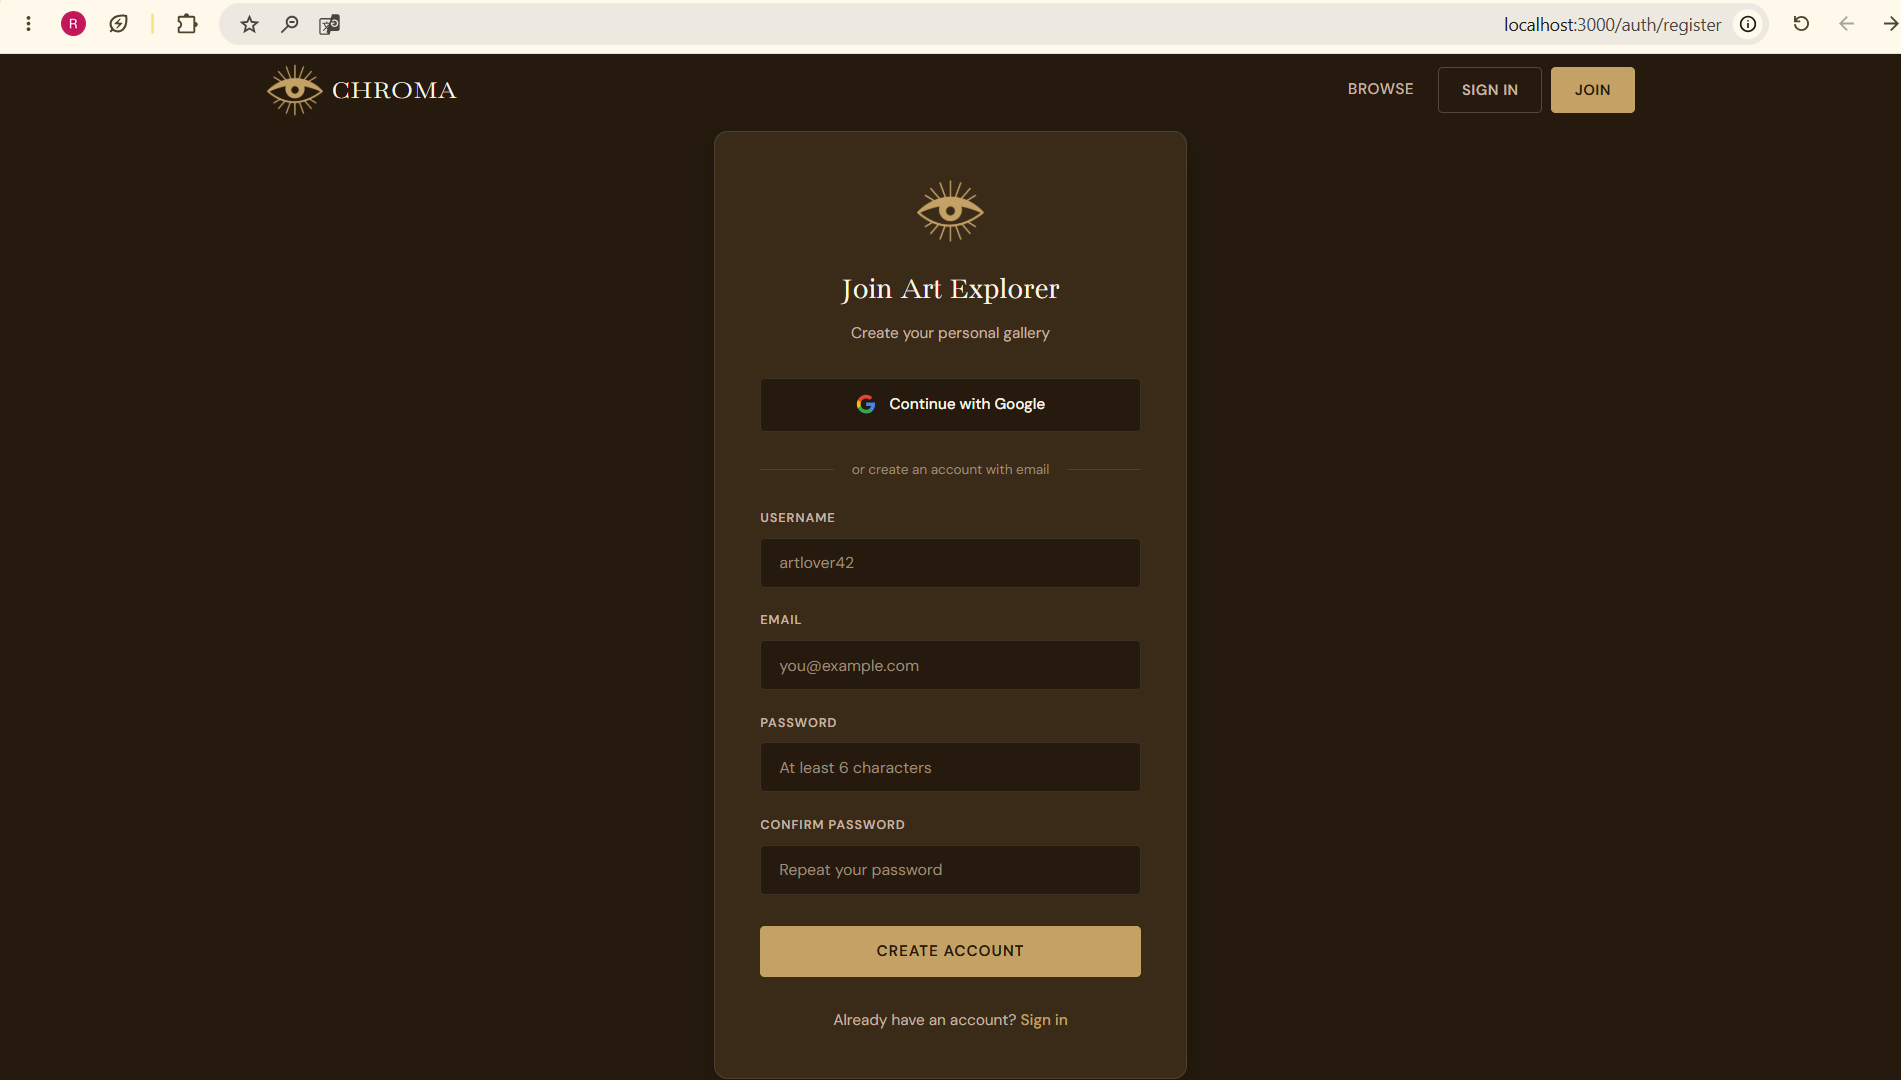
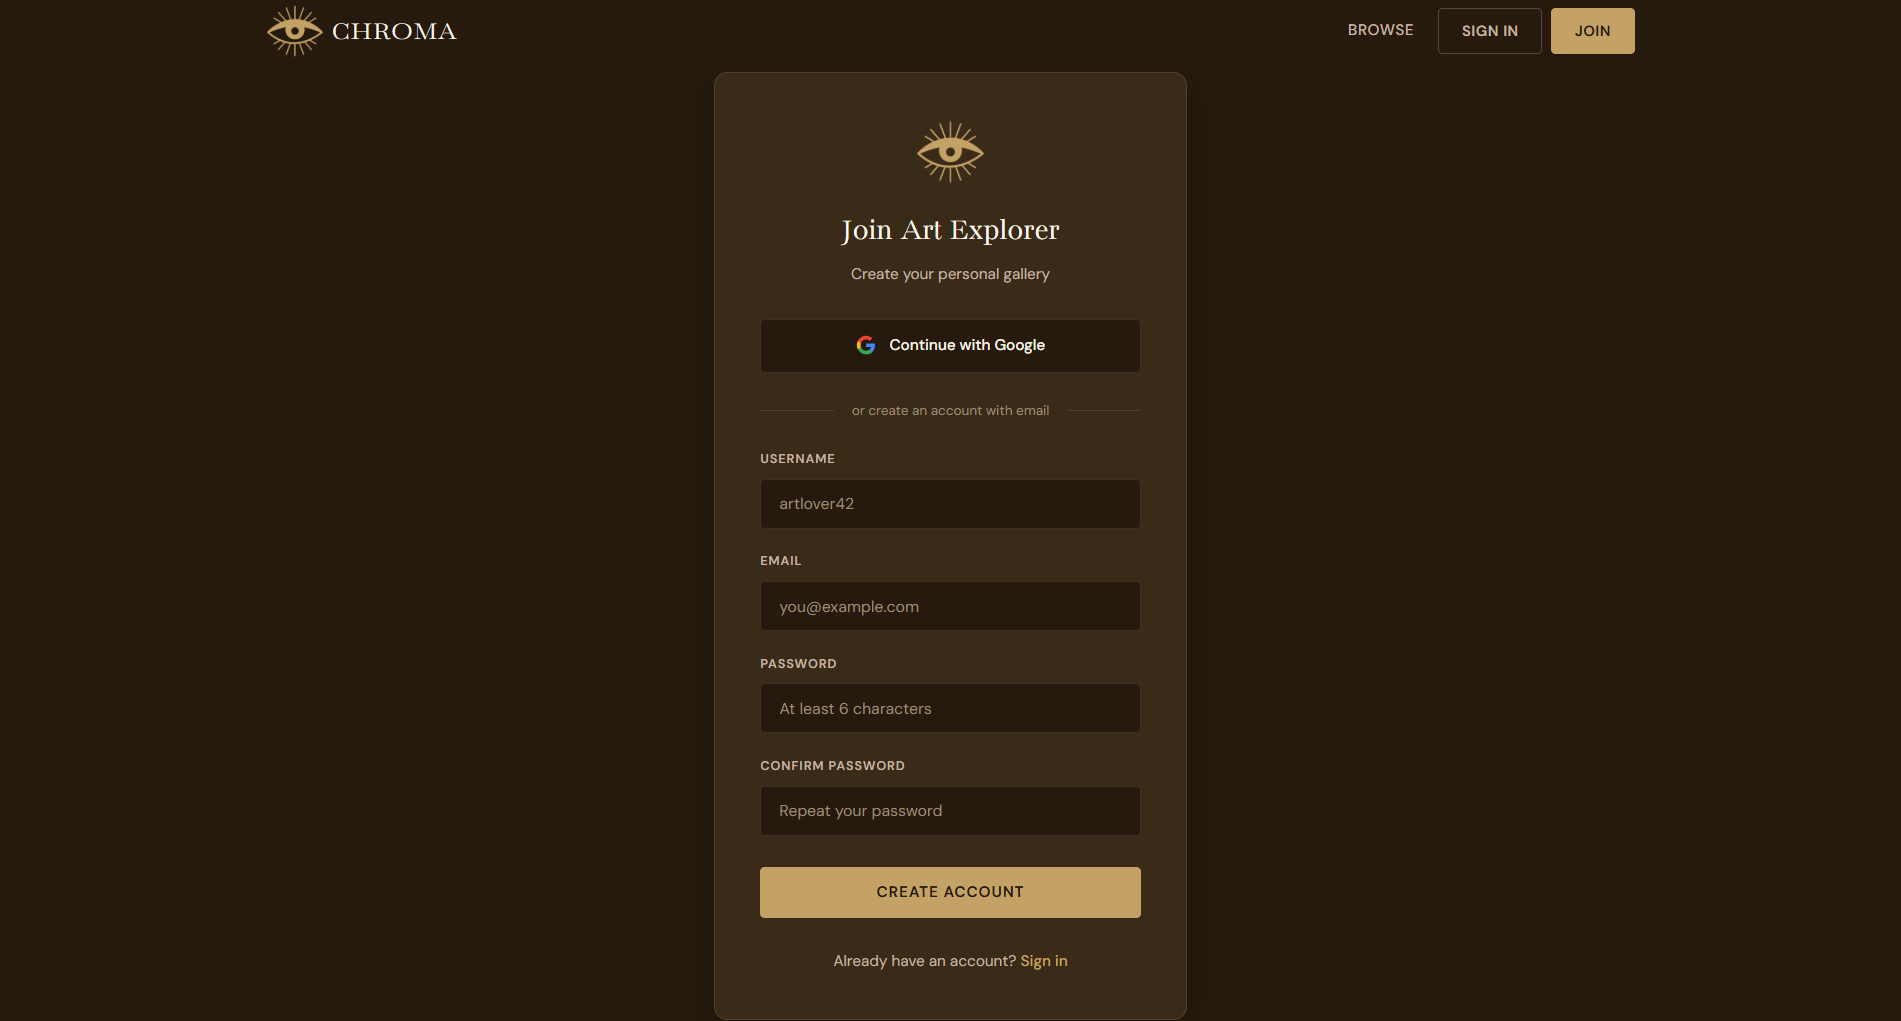
Add flowchart image, update README and joinPage

diff --git a/README.md b/README.md
@@ -19,7 +19,7 @@ A full-stack web application for exploring the Art Institute of Chicago's public
 
 ## Website Flowchart
 the following flowchart demonstrates the main workflow of the system.
-
+![Website Flowchart](./screenshots/flowchart.png)
 ## Tech Stack
 
 | Technology | Purpose |